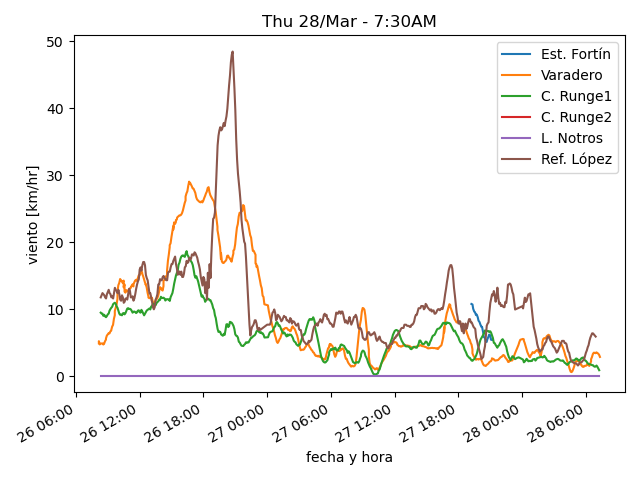
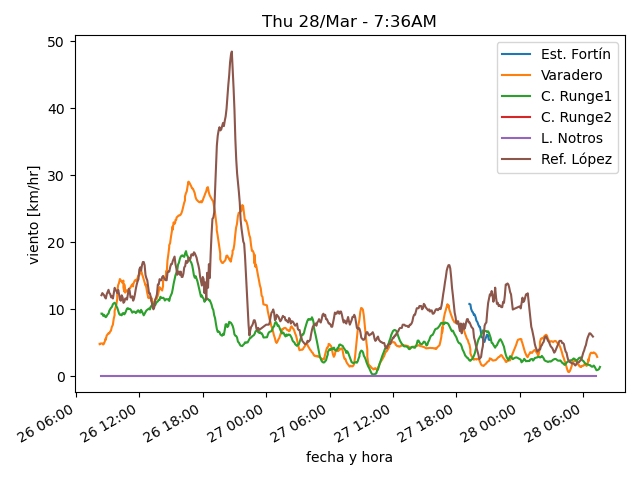
actualiza datos

diff --git a/estaciones/estacion3.html b/estaciones/estacion3.html
@@ -18,32 +18,32 @@
     </tr>
     <tr>
      <td class="stats_data">
-      7:14AM
+      7:34AM
      </td>
     </tr>
     <tr>
      <td class="stats_data">
-      8.4
+      8.8
      </td>
     </tr>
     <tr>
      <td class="stats_data">
-      7.2
+      7.0
      </td>
     </tr>
     <tr>
      <td class="stats_data">
-      91.7
+      88.6
      </td>
     </tr>
     <tr>
      <td class="stats_data">
-      1011.82
+      1011.72
      </td>
     </tr>
     <tr>
      <td class="stats_data">
-      0.3/0.4 W
+      2.5/3.0 WNW
      </td>
     </tr>
     <tr>
